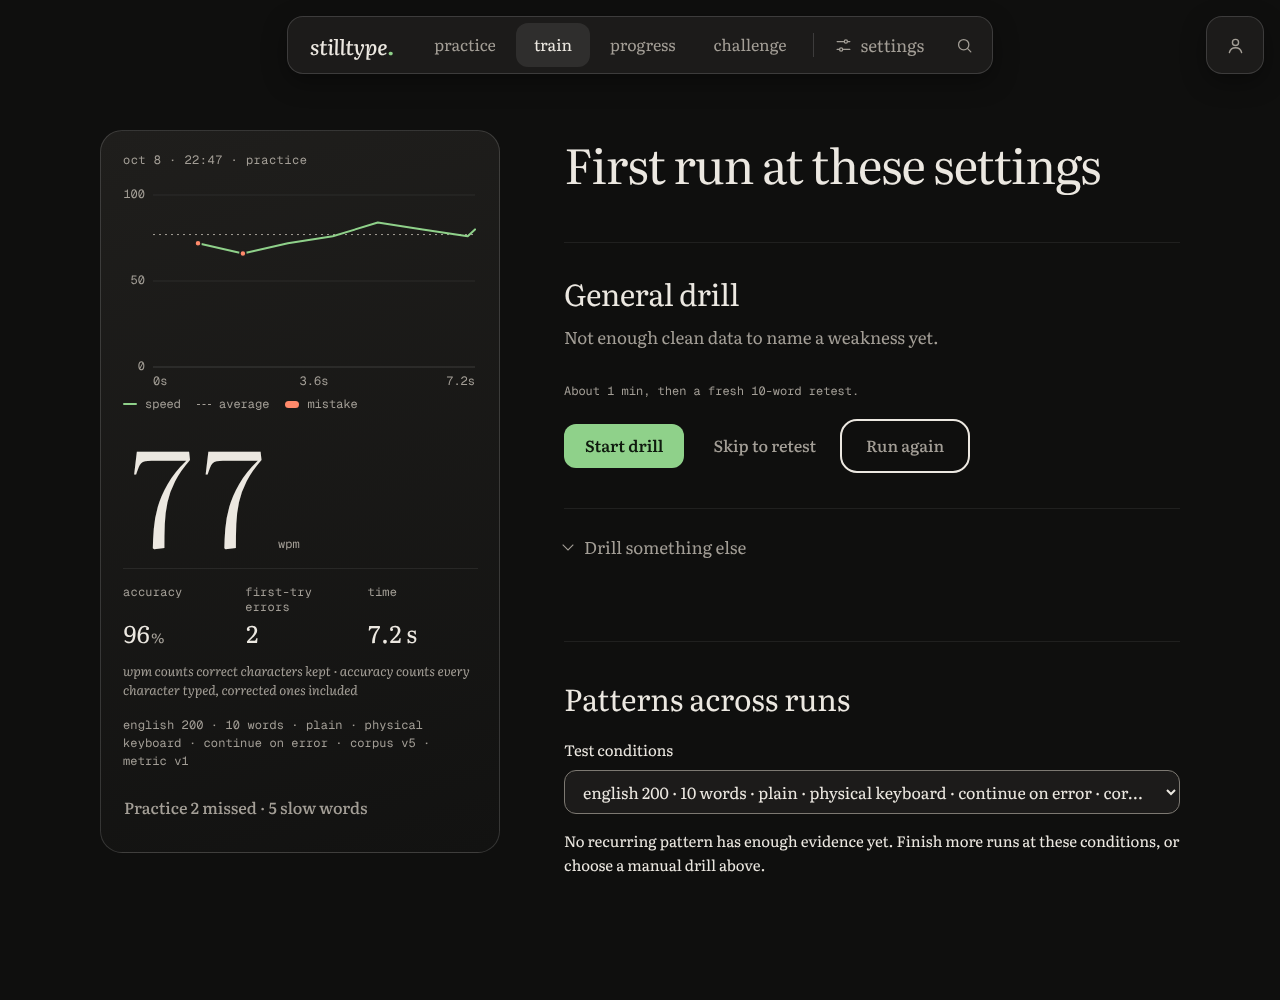
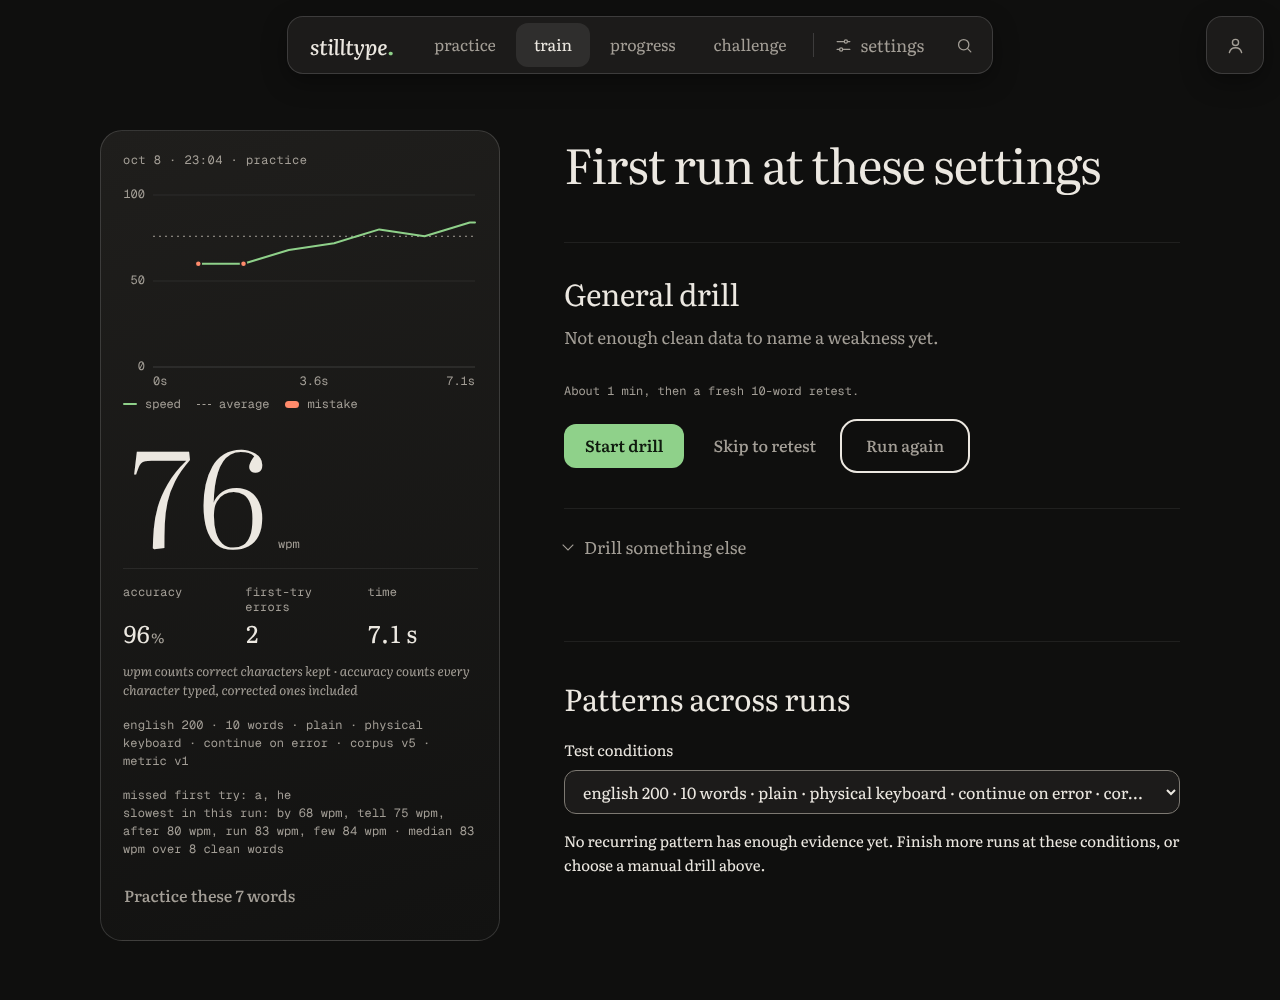
Show the evidence behind practised words and fit the card at 320px
Name the timed words as this run's slowest, with each word's wpm beside
the run's median and the number of clean words timed, instead of calling
them slow. The button reads "Practice these N words", which also keeps it
inside the run card on a 320px screen. The practice passage grows past 40
words so every offered word is in it, and the retest copy after a missed
words run describes the retained baseline's shape. Screenshot tests only
rewrite the committed images when SCREENSHOTS is set.

Claude-Session: https://claude.ai/code/session_01SaBNo9RHRaTR8cCUjK1iLD

diff --git a/e2e/practice-missed-words.spec.js b/e2e/practice-missed-words.spec.js
@@ -28,12 +28,16 @@ async function finishWithTwoMisses(page, delay = 0) {
   return [words[first], words[second]];
 }
 
-test('missed and slow words become their own uncounted practice run', async ({ page }) => {
+test('missed and slowest words become their own uncounted practice run', async ({ page }) => {
   const missed = await finishWithTwoMisses(page);
   const best = await page.locator('#best').textContent();
   const button = page.locator('#practice-words');
   await expect(button).toBeVisible();
-  await expect(button).toHaveText(/^Practice 2 missed · [1-5] slow words?$/);
+  await expect(button).toHaveText(/^Practice these [3-7] words$/);
+  // The slowest words are one timing each, so they show their speed and the run's median.
+  const evidence = page.locator('#practice-words-evidence');
+  await expect(evidence).toContainText(`missed first try: ${missed.join(', ')}`);
+  await expect(evidence).toContainText(/slowest in this run: .+ \d+ wpm .*· median \d+ wpm over \d+ clean words/);
 
   await button.click();
   await expect(page.locator('body')).toHaveAttribute('data-view', 'practice');
@@ -48,6 +52,8 @@ test('missed and slow words become their own uncounted practice run', async ({ p
   await expect(page.locator('#result-delta')).toHaveText('Word practice complete · not counted toward your best');
   await expect(page.locator('#result-conditions')).toContainText('missed words');
   await expect(page.locator('#run-card-stamp')).toContainText('missed');
+  // The retest it offers keeps the 10-word baseline's shape.
+  await expect(page.locator('#recommendation-meta')).toHaveText('About 1 min, then a fresh 10-word retest.');
   // A fast practice run on short words must not become a personal best.
   await expect(page.locator('#best')).toHaveText(best);
   // Run again stays on the same practice passage.
@@ -56,7 +62,15 @@ test('missed and slow words become their own uncounted practice run', async ({ p
   expect((await passageText(page)).split(' ')).toEqual(practice);
 });
 
-test('screenshots', async ({ page }) => {
+// Committed docs images are only rewritten on request (SCREENSHOTS=1); normal runs still take
+// the shots, into the test's own output folder.
+const shot = (testInfo, name) => process.env.SCREENSHOTS
+  ? `docs/screenshots/practice-missed-words/${name}.png`
+  : testInfo.outputPath(`${name}.png`);
+
+test('screenshots', async ({ page }, testInfo) => {
+  // Two runs typed at a human pace take most of the default 30 s.
+  test.setTimeout(90_000);
   await page.setViewportSize({ width: 1280, height: 1000 });
   for (const scheme of ['dark', 'light']) {
     await page.emulateMedia({ colorScheme: scheme, reducedMotion: 'reduce' });
@@ -65,12 +79,12 @@ test('screenshots', async ({ page }) => {
     await expect(page.locator('#practice-words')).toBeVisible();
     await page.mouse.move(1270, 990);
     await page.evaluate(() => window.scrollTo(0, 0));
-    await page.screenshot({ path: `docs/screenshots/practice-missed-words/run-card-${scheme}.png` });
+    await page.screenshot({ path: shot(testInfo, `run-card-${scheme}`) });
     if (scheme === 'dark') {
       await page.locator('#practice-words').click();
       await expect(page.locator('#session-kicker')).toHaveText('missed words');
       await page.evaluate(() => window.scrollTo(0, 0));
-      await page.screenshot({ path: 'docs/screenshots/practice-missed-words/practice-passage.png' });
+      await page.screenshot({ path: shot(testInfo, 'practice-passage') });
     }
   }
 });

diff --git a/src/app.js b/src/app.js
@@ -451,7 +451,7 @@ function configureSessionCopy() {
     practice: ['practice', 'Practice', ''],
     drill: ['drill · 1 min', selectedTarget ? `Practice “${selectedTarget}”` : 'General drill', 'Doesn’t count toward your best.'],
     retest: ['fresh-text retest', 'Measure the change', passage?.fresh === false ? 'You’ve seen every matching quote, so this can’t be a fresh comparison.' : 'Fresh text, same conditions.'],
-    missed: ['missed words', 'Practice missed and slow words', 'Doesn’t count toward your best.'],
+    missed: ['missed words', 'Practice missed and slowest words', 'Doesn’t count toward your best.'],
     daily: ['daily challenge', 'Today’s passage', `${passage?.day} · resets at midnight UTC · ${passage?.firstDailyAttempt ? 'first attempt' : 'repeat attempt'}${passage?.firstDailyAttempt && !passage?.fresh ? ' · previously displayed passage' : ''}`],
   }[sessionKind];
   $('session-kicker').textContent = copy[0];
@@ -822,15 +822,21 @@ function renderCard(completed) {
   renderPracticeWords(completed);
 }
 
-// Offer the words this run tripped on or crawled through as their own uncounted run.
+// Offer the words this run tripped on or was slowest through as their own uncounted run. The
+// slowest are one timing each, so they show their speed beside the run's median, not a weakness.
 function renderPracticeWords(completed) {
-  const { missed, slow } = completed.status === 'complete' ? missedAndSlowWords(completed) : { missed: [], slow: [] };
-  const words = [...missed, ...slow];
+  const { missed, slow, timedCount, medianWpm } = completed.status === 'complete' ? missedAndSlowWords(completed) : { missed: [], slow: [] };
+  const words = [...missed, ...slow.map((item) => item.word)];
   const button = $('practice-words');
-  button.hidden = !words.length;
+  const evidence = $('practice-words-evidence');
+  button.hidden = evidence.hidden = !words.length;
   if (!words.length) return;
+  evidence.textContent = [
+    missed.length ? `missed first try: ${missed.join(', ')}` : '',
+    slow.length ? `slowest in this run: ${slow.map((item) => `${item.word} ${item.wpm} wpm`).join(', ')} · median ${medianWpm} wpm over ${timedCount} clean words` : '',
+  ].filter(Boolean).join('\n');
   const text = practiceWordsPassage(words);
-  button.textContent = `Practice ${missed.length} missed · ${slow.length} slow word${slow.length === 1 ? '' : 's'}`;
+  button.textContent = words.length === 1 ? 'Practice this word' : `Practice these ${words.length} words`;
   button.onclick = () => {
     wordsPassage = { id: `missed-${textId(text)}`, text, fresh: false, words };
     resetSession('missed', { focus: true });
@@ -878,7 +884,7 @@ function renderResults(completed, saved) {
   $('recommendation-title').textContent = counted ? activeRecommendation.title : 'Restart for a counted run';
   $('recommendation-evidence').textContent = counted ? activeRecommendation.reason : 'This run lost focus or used unsupported input.';
   $('recommendation-meta').textContent = baselineAttempt
-    ? `About 1 min, then a fresh ${retestLength(completed.conditions)} retest.`
+    ? `About 1 min, then a fresh ${retestLength(baselineAttempt.conditions)} retest.`
     : 'A standalone drill. Finish a practice run to establish a fresh-text retest baseline.';
   $('start-drill').disabled = !counted;
   $('skip-to-retest').disabled = !counted || !baselineAttempt;

diff --git a/tests/insights.test.js b/tests/insights.test.js
@@ -3,7 +3,7 @@ import assert from 'node:assert/strict';
 import { CORPUS_VERSION, conditionKey, quoteCorpus, selectPassage } from '../src/typing.js';
 import { dailyPassage, filterRuns, missedAndSlowWords, practiceWordsPassage, recurringTargets, retainRuns, trendRun, weeklyChange } from '../src/insights.js';
 
-test('missed and slow words come from first tries and per-word speed', () => {
+test('missed and slowest words come from first tries and per-word speed', () => {
   const text = 'the cat sat on mat';
   // One keystroke every 100 ms, except "on" is slow and "cat" has a wrong first try.
   const events = [];
@@ -13,16 +13,25 @@ test('missed and slow words come from first tries and per-word speed', () => {
     if (i === 5) events.push({ type: 'insert', text: 'x', position: i, offsetMs: t - 50 }, { type: 'delete', count: 1, offsetMs: t - 25 });
     events.push({ type: 'insert', text: text[i], position: i, offsetMs: t });
   }
-  const { missed, slow } = missedAndSlowWords({ text, events }, 2);
+  const { missed, slow, timedCount, medianWpm } = missedAndSlowWords({ text, events }, 2);
   assert.deepEqual(missed, ['cat']);
-  assert.equal(slow[0], 'on');
+  // "on" took 1200 ms for two letters plus its space: 2 / 5 words in 1.2 s is 20 wpm.
+  assert.deepEqual(slow[0], { word: 'on', wpm: 20 });
   assert.equal(slow.length, 2);
-  assert.ok(!slow.includes('cat'));
+  assert.ok(!slow.some((item) => item.word === 'cat'));
+  // Four clean words were timed; the median sits between the two middle speeds.
+  assert.equal(timedCount, 4);
+  assert.ok(medianWpm > slow[0].wpm);
   const passage = practiceWordsPassage(['cat', 'on'], 40);
   assert.equal(passage, practiceWordsPassage(['cat', 'on'], 40));
   assert.equal(passage.split(' ').length, 40);
   assert.ok(!/\b(\w+) \1\b/.test(passage));
   assert.equal(practiceWordsPassage([]), '');
+  // More words than the passage length: the passage grows so none is dropped.
+  const many = Array.from({ length: 45 }, (_, i) => `w${i}`);
+  const long = practiceWordsPassage(many, 40).split(' ');
+  assert.equal(long.length, 45);
+  assert.deepEqual([...long].sort(), [...many].sort());
 });
 
 const conditions = { mode: 'words', count: 25, wordList: '1k', corpus: CORPUS_VERSION };

diff --git a/src/insights.js b/src/insights.js
@@ -114,7 +114,8 @@ const DAILY_TEXTS = [
 
 const cleanWord = (word) => word.toLowerCase().replace(/[^\p{L}\p{N}'-]/gu, '');
 
-// Missed words had any wrong first try; slow words are the slowest clean words by per-word wpm.
+// Missed words had any wrong first try. The slowest are this run's slowest clean words by per-word
+// wpm: one timing each, so they carry their speed and the run's median for comparison, not a verdict.
 export function missedAndSlowWords(attempt, slowLimit = 5) {
   const replay = attempt.summary || replayAttempt(attempt);
   const first = new Map(replay.firstAttempts.map((item) => [item.position, item]));
@@ -138,17 +139,22 @@ export function missedAndSlowWords(attempt, slowLimit = 5) {
     }
     start = end + 1;
   }
+  timed.sort((a, b) => a.wpm - b.wpm);
   const slow = [];
-  for (const item of timed.sort((a, b) => a.wpm - b.wpm)) {
+  for (const item of timed) {
     if (slow.length >= slowLimit) break;
-    if (!missed.includes(item.word) && !slow.includes(item.word)) slow.push(item.word);
+    if (!missed.includes(item.word) && !slow.some((s) => s.word === item.word)) slow.push({ word: item.word, wpm: Math.round(item.wpm) });
   }
-  return { missed, slow };
+  const mid = timed.length >> 1;
+  const medianWpm = !timed.length ? null : Math.round(timed.length % 2 ? timed[mid].wpm : (timed[mid - 1].wpm + timed[mid].wpm) / 2);
+  return { missed, slow, timedCount: timed.length, medianWpm };
 }
 
-// Deterministic: the same words always build the same practice passage.
+// Deterministic: the same words always build the same practice passage. It grows past `length`
+// when there are more words, so every word offered is in it.
 export function practiceWordsPassage(words, length = 40) {
   if (!words.length) return '';
+  length = Math.max(length, words.length);
   let seed = 2166136261;
   for (const char of words.join(' ')) seed = Math.imul(seed ^ char.charCodeAt(0), 16777619) >>> 0;
   const random = () => {

diff --git a/index.html b/index.html
@@ -247,6 +247,7 @@
             </dl>
             <p class="metric-note">wpm counts correct characters kept · accuracy counts every character typed, corrected ones included</p>
             <p class="condition-copy" id="result-conditions">english · common words · corpus v3 · metric v1</p>
+            <p class="condition-copy practice-evidence" id="practice-words-evidence" hidden></p>
             <button id="practice-words" class="btn btn-ghost run-card-practice" type="button" data-action="practice-words" hidden>Practice missed words</button>
           </article>
 

diff --git a/src/styles.css b/src/styles.css
@@ -1245,6 +1245,7 @@ body[data-focus-mode="true"][data-view="practice"] .exit-focus { display: inline
 }
 
 .run-card .condition-copy { font-size: var(--text-fine); }
+.practice-evidence { white-space: pre-line; overflow-wrap: anywhere; }
 .run-card-practice { justify-self: start; align-self: start; margin-inline-start: calc((var(--space-4) + var(--space-1)) * -1); }
 
 .results-copy { min-width: 0; display: grid; gap: var(--space-10); padding-top: var(--space-2); }

diff --git a/docs/ui-contract.md b/docs/ui-contract.md
@@ -43,7 +43,7 @@ Practice mode controls are `#mode-time`, `#mode-words`, `#mode-quote`, `#duratio
 
 `#results-heading` contains `#result-delta`, the one-line headline for the run. `#result-comparison-note` stays empty except for interrupted-run and storage messages.
 
-The run card is `#run-card`: `#run-card-stamp` (date, time and session kind), `#speed-graph` (an SVG speed-over-time graph drawn by `src/graph.js` from the attempt's keystrokes, mistakes in coral; `role="img"` with a text summary in its `aria-label`; presentational only) and its legend, `#result-wpm`, `#result-accuracy`, `#result-errors`, `#result-time`, a one-line metric definition, and `#result-conditions`. The card is a static print: numbers are set directly, with no tilt, reels or count-up.
+The run card is `#run-card`: `#run-card-stamp` (date, time and session kind), `#speed-graph` (an SVG speed-over-time graph drawn by `src/graph.js` from the attempt's keystrokes, mistakes in coral; `role="img"` with a text summary in its `aria-label`; presentational only) and its legend, `#result-wpm`, `#result-accuracy`, `#result-errors`, `#result-time`, a one-line metric definition, `#result-conditions` and, after a complete run with missed or timed words, `#practice-words-evidence` (the words missed on the first try, and this run's slowest clean words with their wpm beside the run's median and sample count) above `#practice-words`, which starts an uncounted `missed` practice run of those words. The card is a static print: numbers are set directly, with no tilt, reels or count-up.
 
 Recommendation IDs are `recommendation-title`, `recommendation-evidence`, `recommendation-list`, `recommendation-meta`, `start-drill`, `skip-to-retest`, and `run-again`.
 
